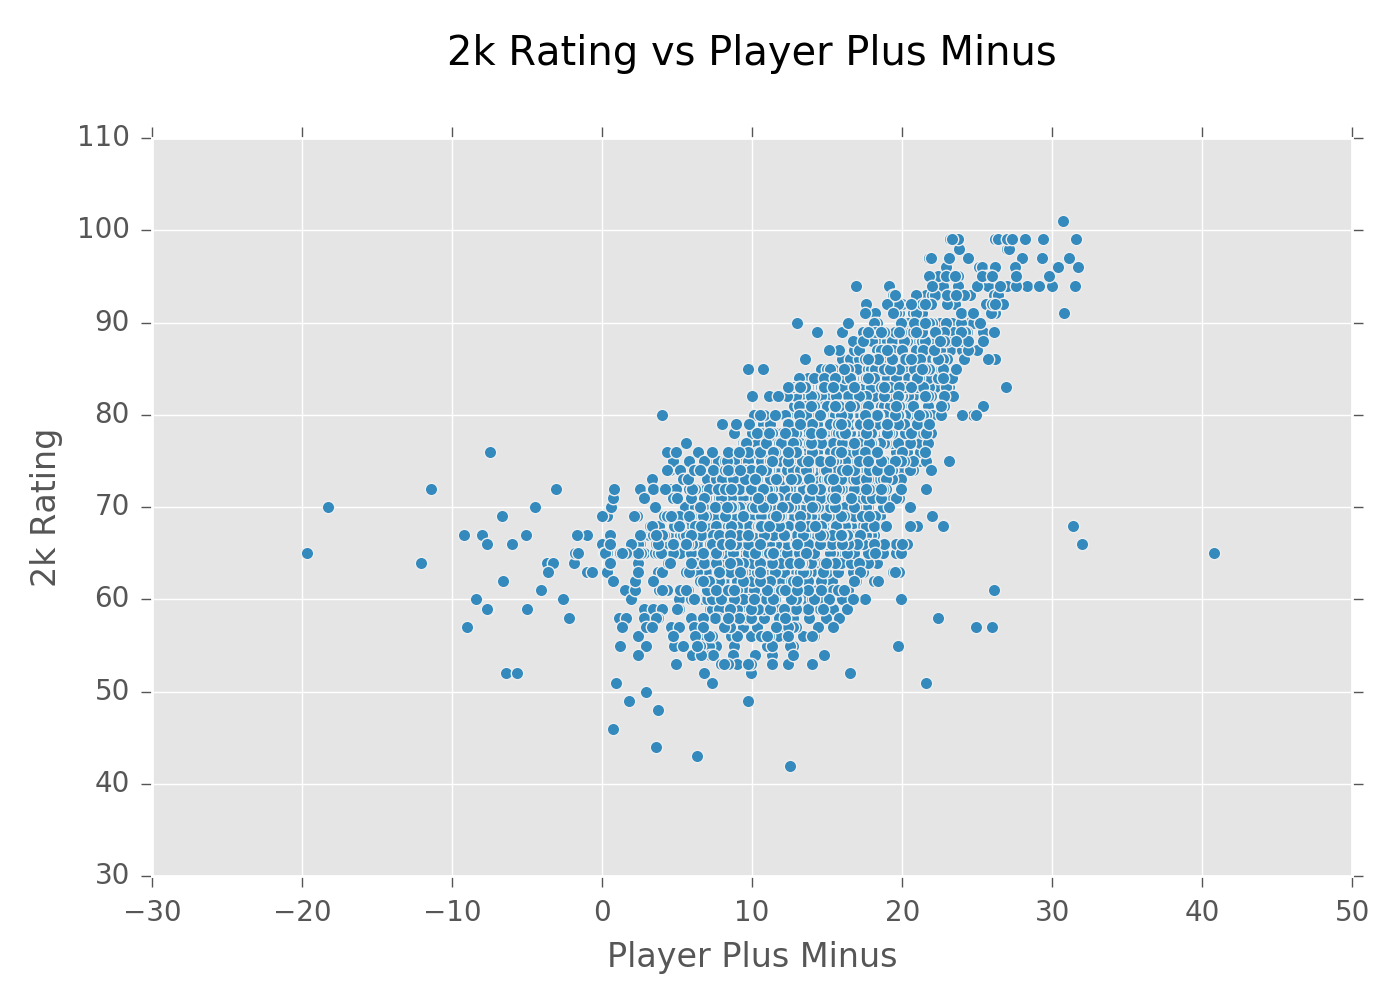
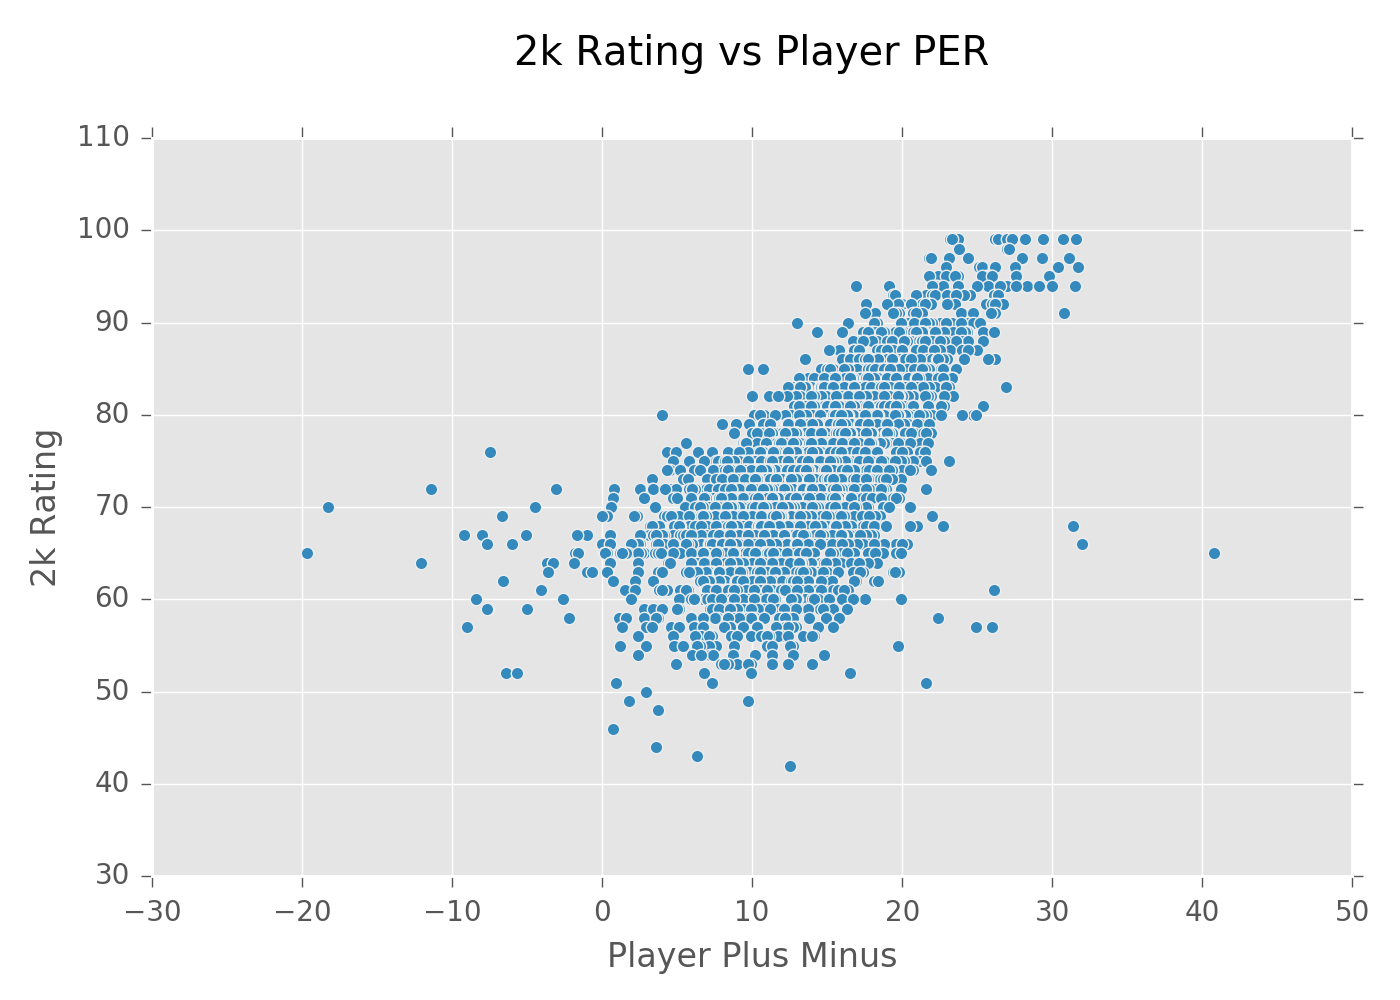
New data

Changed region(s): [[0.4607, 0.279, 0.7064, 0.651], [0.3071, 0.031, 0.7679, 0.093], [0.7371, 0.217, 0.7679, 0.248]]

diff --git a/Data_Analysis_Scripts/data_analysis_ppg_assists_rating.py b/Data_Analysis_Scripts/data_analysis_ppg_assists_rating.py
@@ -1,0 +1,26 @@
+import pandas as pd
+
+import matplotlib.pyplot as plt
+import matplotlib
+from mpl_toolkits.mplot3d import Axes3D
+
+matplotlib.style.use("ggplot")
+
+df = pd.read_csv("../dataset.csv")
+
+print df.columns
+
+X = df['points per game'].values
+Y = df['assists per game'].values
+Z = df['rating'].values
+
+fig = plt.figure()
+ax = fig.add_subplot(111, projection='3d')
+
+ax.scatter(xs=X, ys=Y, zs=Z)
+
+ax.set_xlabel('Points Per Game')
+ax.set_ylabel('Assists Per Game')
+ax.set_zlabel('Rating')
+
+fig.savefig("../Data Analysis/rating_vs_ppg_assists.png", dpi=200)

diff --git a/Data_Analysis_Scripts/data_analysis_per.py b/Data_Analysis_Scripts/data_analysis_per.py
@@ -9,7 +9,7 @@ df = pd.read_csv("../dataset.csv")
 print df.columns
 
 ax = df.plot.scatter(x="player efficiency rating", y="rating", figsize=(7,5))
-ax.set_title("2k Rating vs Player Plus Minus", y=1.08)
+ax.set_title("2k Rating vs Player PER", y=1.08)
 ax.set_ylabel("2k Rating")
 ax.set_xlabel("Player Plus Minus")
 fig = ax.get_figure()
